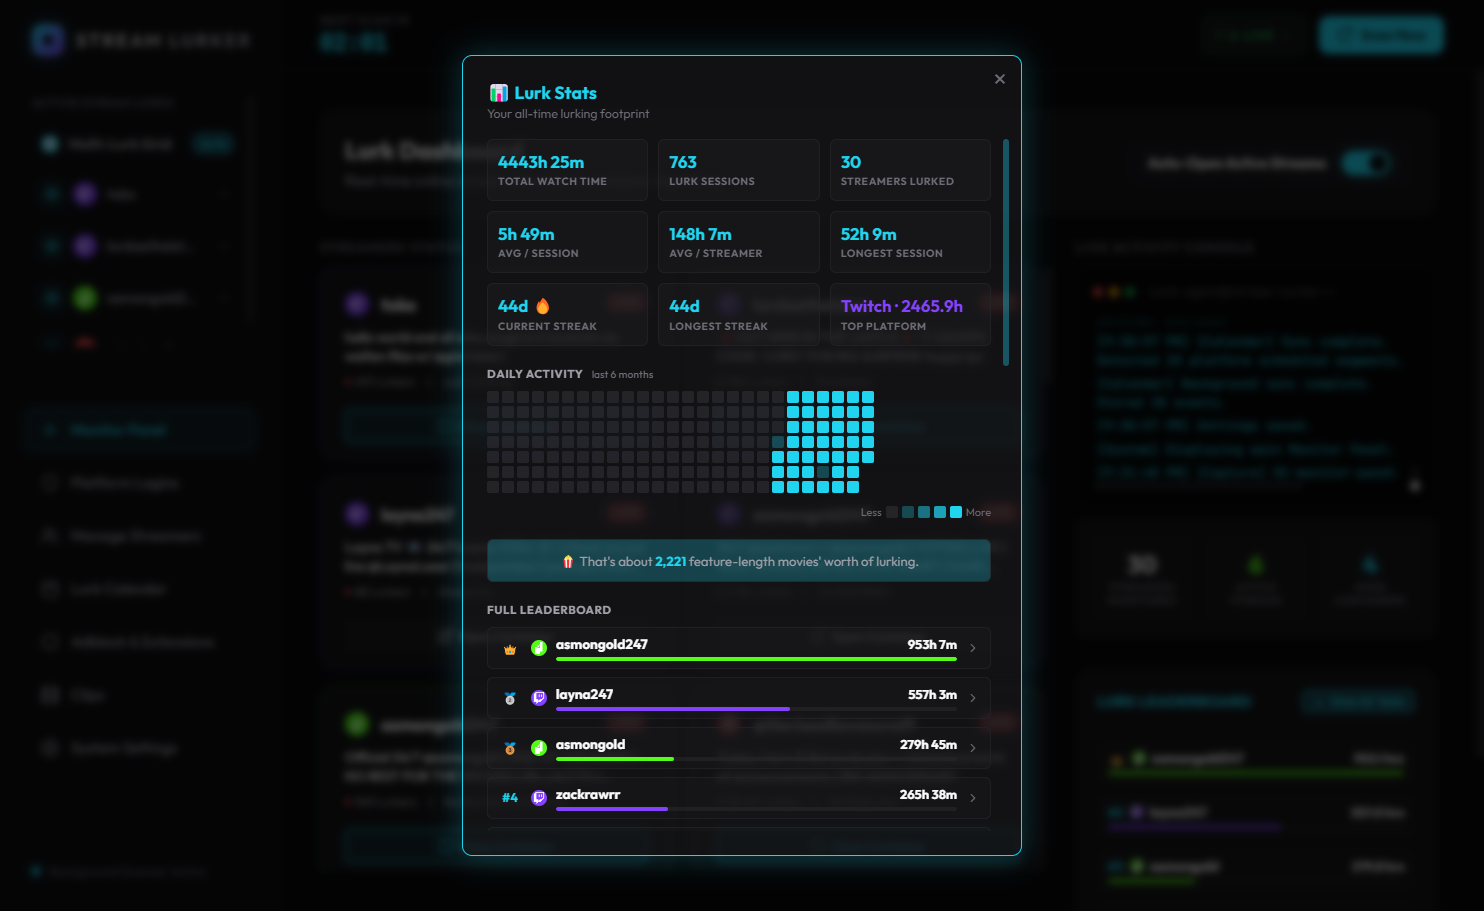
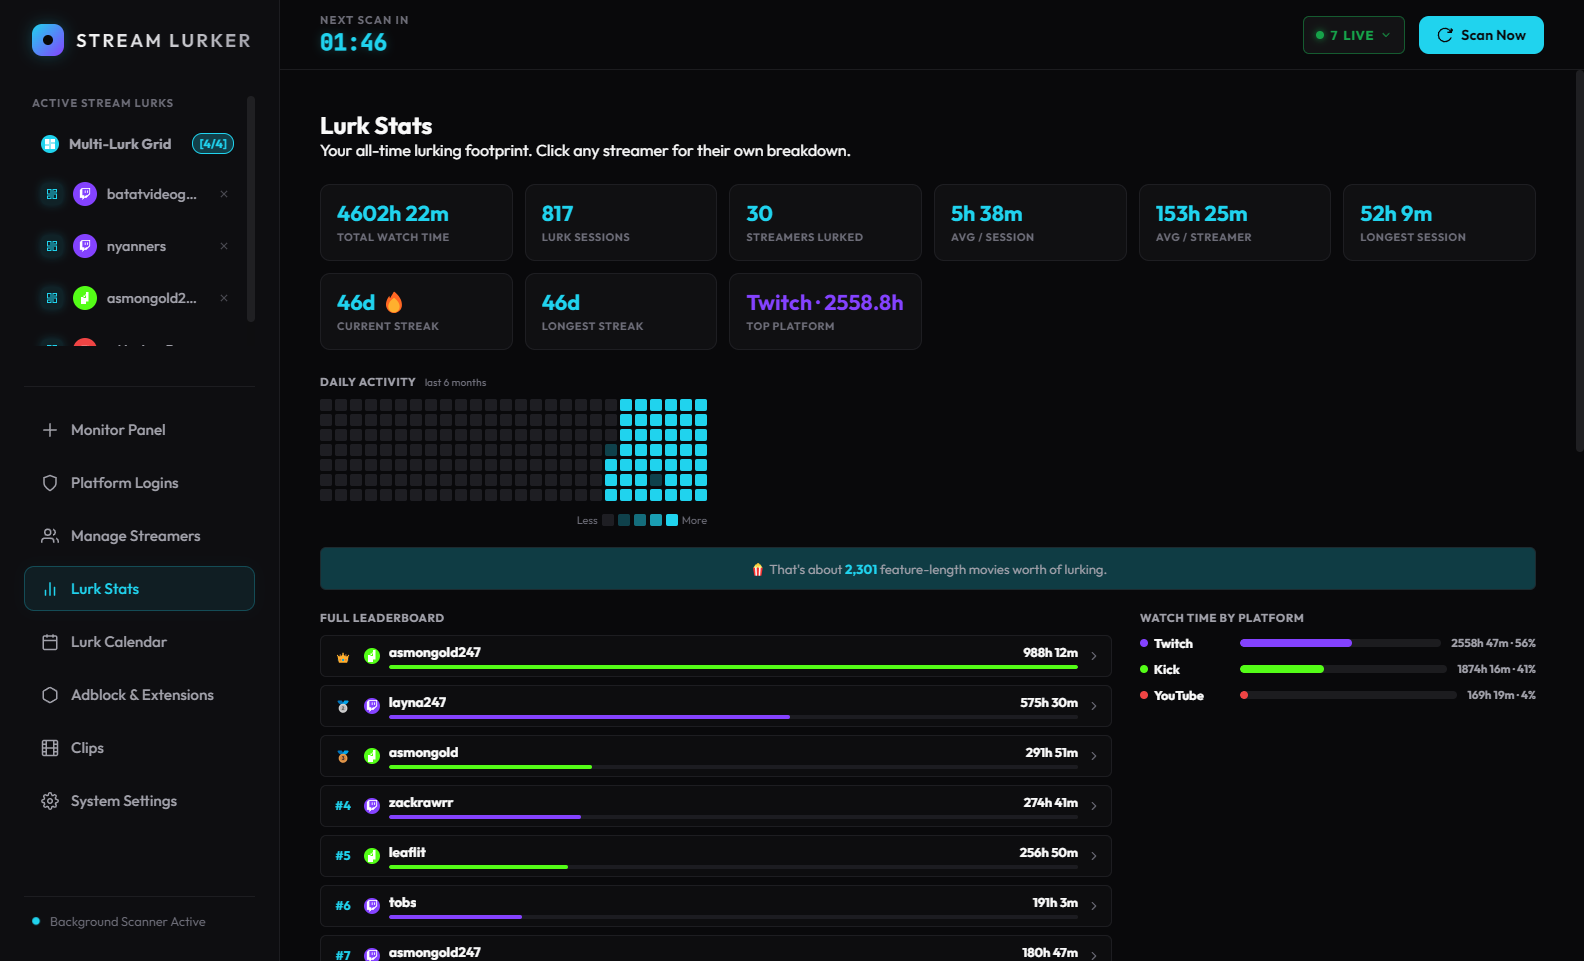
Refresh README for v0.13.0-beta
Screenshots showed the pre-v0.13 layout, with the leaderboard still tucked into
the dashboard sidebar, and the text predated several releases.

- Recapture the dashboard, Multi-Lurk Grid and Lurk Stats against the current
  build, and add the first-run setup guide
- Cover what shipped since: Lurk Stats as its own tab, per-streamer alert modes
  (auto-open / notify only / ignore), backup & transfer, startup options, and
  the in-grid watch time / viewers / uptime line
- Note that config is written atomically with a rolling backup
- Point getting-started at the setup guide rather than a bare list of steps

diff --git a/README.md b/README.md
@@ -23,7 +23,7 @@ browser tabs, and each one eats a chunk of your CPU. Stream Lurker runs quietly 
 background, polls the platforms on a schedule, and takes care of it for you.
 
 - **Never miss a go-live.** A background scanner checks every few minutes and can open a
-  channel the second it starts, with a desktop notification.
+  channel the second it starts — or just tell you about it and leave the opening to you.
 - **Lurk a lineup, not a tab bar.** Streams open as muted, low-quality containers inside one
   window, so watching six channels doesn't cost six browser tabs' worth of RAM.
 - **Support the streamers you follow.** Watch time is counted, and Twitch channel points are
@@ -39,17 +39,30 @@ background, polls the platforms on a schedule, and takes care of it for you.
 ### Multi-Lurk Grid
 
 Every live channel in one window, each with its own chat, mute, quality, reload and
-Picture-in-Picture controls. Streams run muted at low quality by default; the built-in Ghost
-Mode suspends decoding entirely for the ones you only want *credited*, not watched.
+Picture-in-Picture controls, and a header line showing your all-time watch time for that
+streamer alongside their current viewers and uptime. Streams run muted at low quality by
+default; the built-in Ghost Mode suspends decoding entirely for the ones you only want
+*credited*, not watched.
 
 ![Multi-Lurk Grid with four simultaneous streams](docs/screenshots/multi-lurk-grid.png)
 
 ### Lurk Stats
 
-Your lurking, quantified: total watch time, sessions, streaks, a six-month activity heatmap,
-a full leaderboard, and a per-streamer breakdown behind any name on it.
+Your lurking, quantified: total watch time, sessions, streaks, longest session, a six-month
+activity heatmap, the full ranking, and a per-platform split. Click any streamer for their own
+breakdown — rank, share of your total, longest session, when you last watched them.
 
-![Lurk Stats with activity heatmap and leaderboard](docs/screenshots/lurk-stats.png)
+![Lurk Stats with activity heatmap and full leaderboard](docs/screenshots/lurk-stats.png)
+
+### Per-streamer alert modes
+
+Not every channel deserves the same treatment. Each one can be set to:
+
+| | |
+|---|---|
+| ⚡ **Auto-open** | Opens the stream the moment they go live |
+| 🔔 **Notify only** | Tells you they're live and leaves it at that — click the alert to start watching |
+| 🔕 **Ignore** | Still monitored and listed, but never alerts or opens |
 
 ### Lurk Calendar
 
@@ -66,7 +79,8 @@ Weekly schedules pulled straight from the platforms, plus your own manual lurk p
 | **1-click login** | A companion browser extension imports your existing sessions — no copy-pasting cookies. |
 | **Adblock support** | Load unpacked Chromium extensions (uBlock Origin, 7TV, …) into the stream containers. |
 | **Clips** | Browse trending clips from the streamers you monitor. |
-| **Runs in the tray** | Closing the window keeps the scanner alive in the background. |
+| **Backup & transfer** | Export your streamers, history and settings to a file — or import them on another PC. |
+| **Runs in the tray** | Optionally launches with Windows and starts straight to the tray, so the scanner is always going. |
 | **Auto-updates** | New versions are detected and installed from within the app. |
 
 ## Install
@@ -94,20 +108,27 @@ npm run dist-linux    # Linux AppImage / tar.gz
 
 ## Getting started
 
+First launch walks you through it, and you can reopen the guide any time from
+**System Settings → Setup Guide**.
+
+![First-run setup guide](docs/screenshots/setup-guide.png)
+
 1. **Sign in** under **Platform Logins**. The quickest route is the 1-click **Stream Lurker
    Connector** extension — load it from the `extension/` folder via your browser's
    *Extensions → Developer mode → Load unpacked*, enter the pairing code the app shows, and
    click Connect. Pasting cookies manually also works.
 2. **Add streamers** under **Manage Streamers**. Their order is the watch priority, used when
-   per-platform stream limits are reached.
-3. **Turn on Auto-Open** on the dashboard and leave it running. Set your default quality and
-   per-platform limits under **System Settings**.
+   per-platform stream limits are reached, and the button beside each one sets how it alerts you.
+3. **Turn on Auto-Open** on the dashboard and leave it running. Set your default quality,
+   per-platform limits and startup behaviour under **System Settings**.
 
 ## Notes
 
 - Sessions and settings are stored locally in Electron's user-data directory
   (`%APPDATA%/stream-lurker` on Windows). Nothing is uploaded anywhere, and none of it is part
   of this repository.
+- Your config — including all watch history — is written atomically and kept alongside a
+  rolling backup, so an unexpected shutdown can't leave it corrupt.
 - The connector extension reads cookies **only** for the platform you click, and sends them
   **only** to the app listening on `127.0.0.1` — guarded by a pairing code shown in the app.
 - Rumble support is scaffolded but disabled — it's not usable yet.
